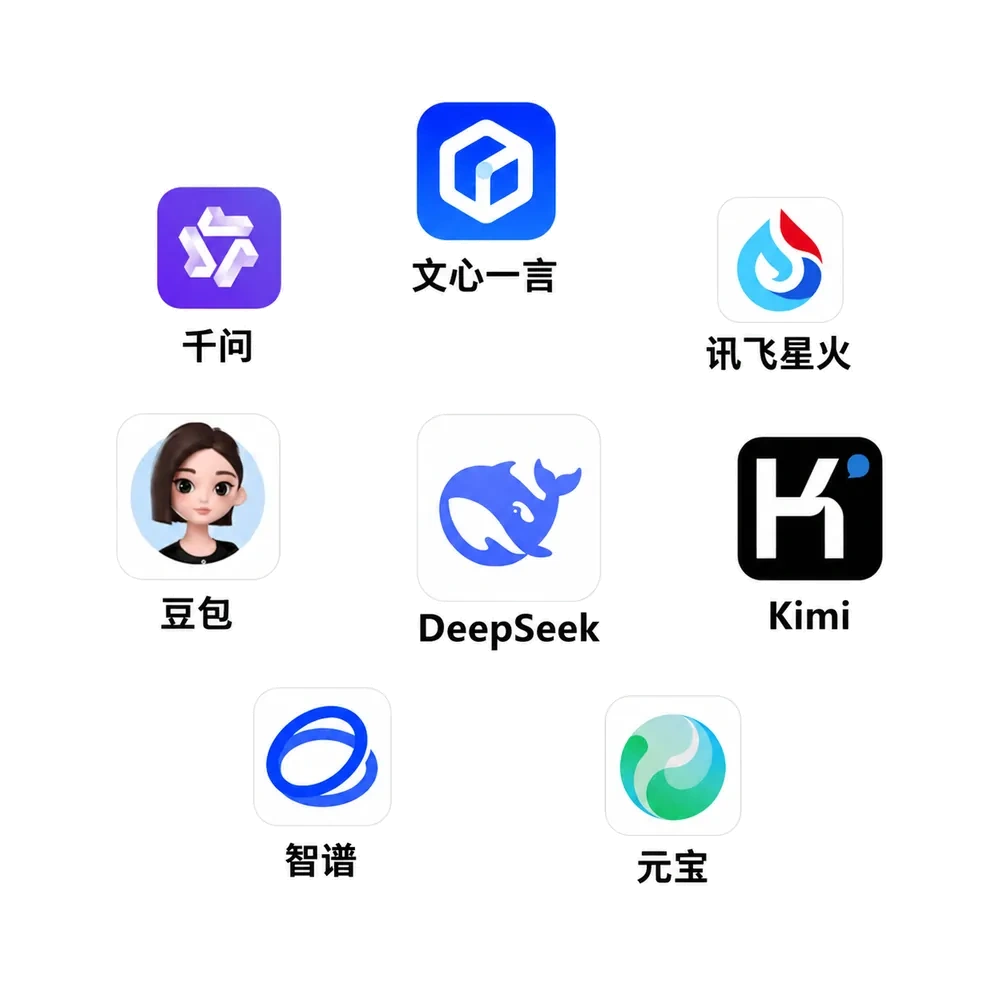
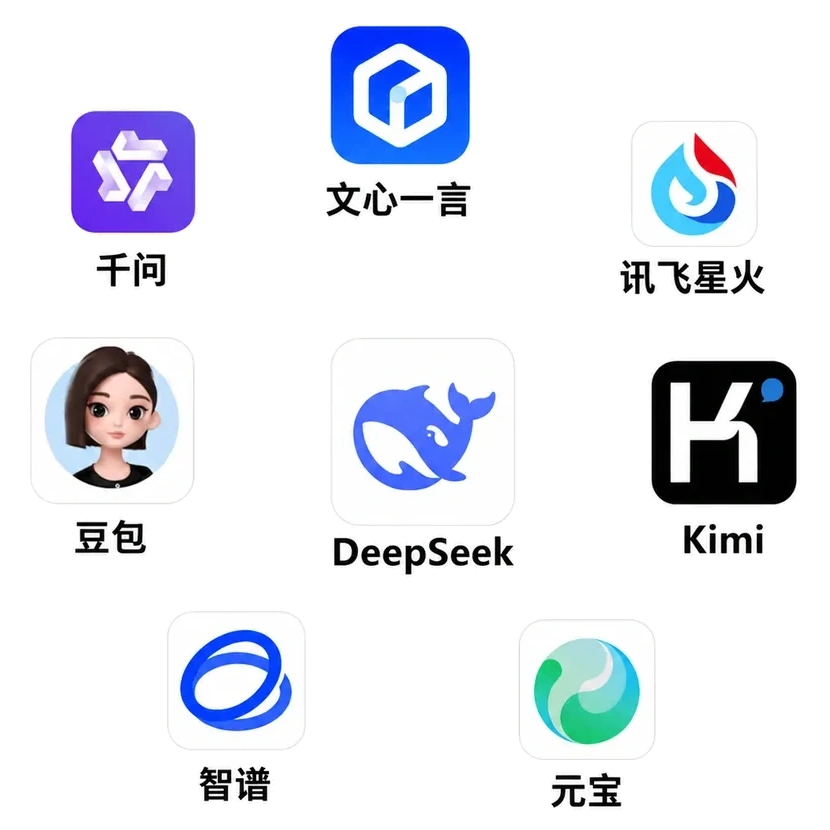
fix(nextgeo): 裁切多余透明边距并等比放大右侧8大模型Logo(视觉平衡呼应左侧大卡片)

diff --git a/projects/nextgeo/outputs/index.html b/projects/nextgeo/outputs/index.html
@@ -284,17 +284,17 @@
         </div>
       </div>
 
-      <!-- 右侧 AI 平台生态图案 (彻底去掉外层卡片框，8 大模型 Logo 纯净通透悬浮在版面上) -->
-      <div class="lg:col-span-5 flex items-center justify-center">
-        <div class="w-full max-w-[480px] p-2 sm:p-4">
+      <!-- 右侧 AI 平台生态图案 (去卡片化，8 大模型 Logo 大气通透，等比例放大呼应左屏) -->
+      <div class="lg:col-span-5 flex items-center justify-center lg:justify-end">
+        <div class="w-full max-w-[520px] xl:max-w-[560px] p-2">
           <picture class="w-full block">
             <source srcset="assets/ai-platforms-cn.webp" type="image/webp">
             <img 
               src="assets/ai-platforms-cn.webp" 
               alt="通义千问、文心一言、讯飞星火、豆包、DeepSeek、Kimi、智谱清言、腾讯元宝等国产主流大模型矩阵" 
-              class="w-full h-auto aspect-square object-contain drop-shadow-sm hover:scale-[1.02] transition-transform duration-300"
-              width="480"
-              height="480"
+              class="w-full h-auto aspect-square object-contain drop-shadow-md hover:scale-[1.03] transition-transform duration-300"
+              width="560"
+              height="560"
               loading="eager"
               fetchpriority="high"
               decoding="async">

diff --git a/projects/nextgeo/outputs/site/index.html b/projects/nextgeo/outputs/site/index.html
@@ -284,17 +284,17 @@
         </div>
       </div>
 
-      <!-- 右侧 AI 平台生态图案 (彻底去掉外层卡片框，8 大模型 Logo 纯净通透悬浮在版面上) -->
-      <div class="lg:col-span-5 flex items-center justify-center">
-        <div class="w-full max-w-[480px] p-2 sm:p-4">
+      <!-- 右侧 AI 平台生态图案 (去卡片化，8 大模型 Logo 大气通透，等比例放大呼应左屏) -->
+      <div class="lg:col-span-5 flex items-center justify-center lg:justify-end">
+        <div class="w-full max-w-[520px] xl:max-w-[560px] p-2">
           <picture class="w-full block">
             <source srcset="assets/ai-platforms-cn.webp" type="image/webp">
             <img 
               src="assets/ai-platforms-cn.webp" 
               alt="通义千问、文心一言、讯飞星火、豆包、DeepSeek、Kimi、智谱清言、腾讯元宝等国产主流大模型矩阵" 
-              class="w-full h-auto aspect-square object-contain drop-shadow-sm hover:scale-[1.02] transition-transform duration-300"
-              width="480"
-              height="480"
+              class="w-full h-auto aspect-square object-contain drop-shadow-md hover:scale-[1.03] transition-transform duration-300"
+              width="560"
+              height="560"
               loading="eager"
               fetchpriority="high"
               decoding="async">
